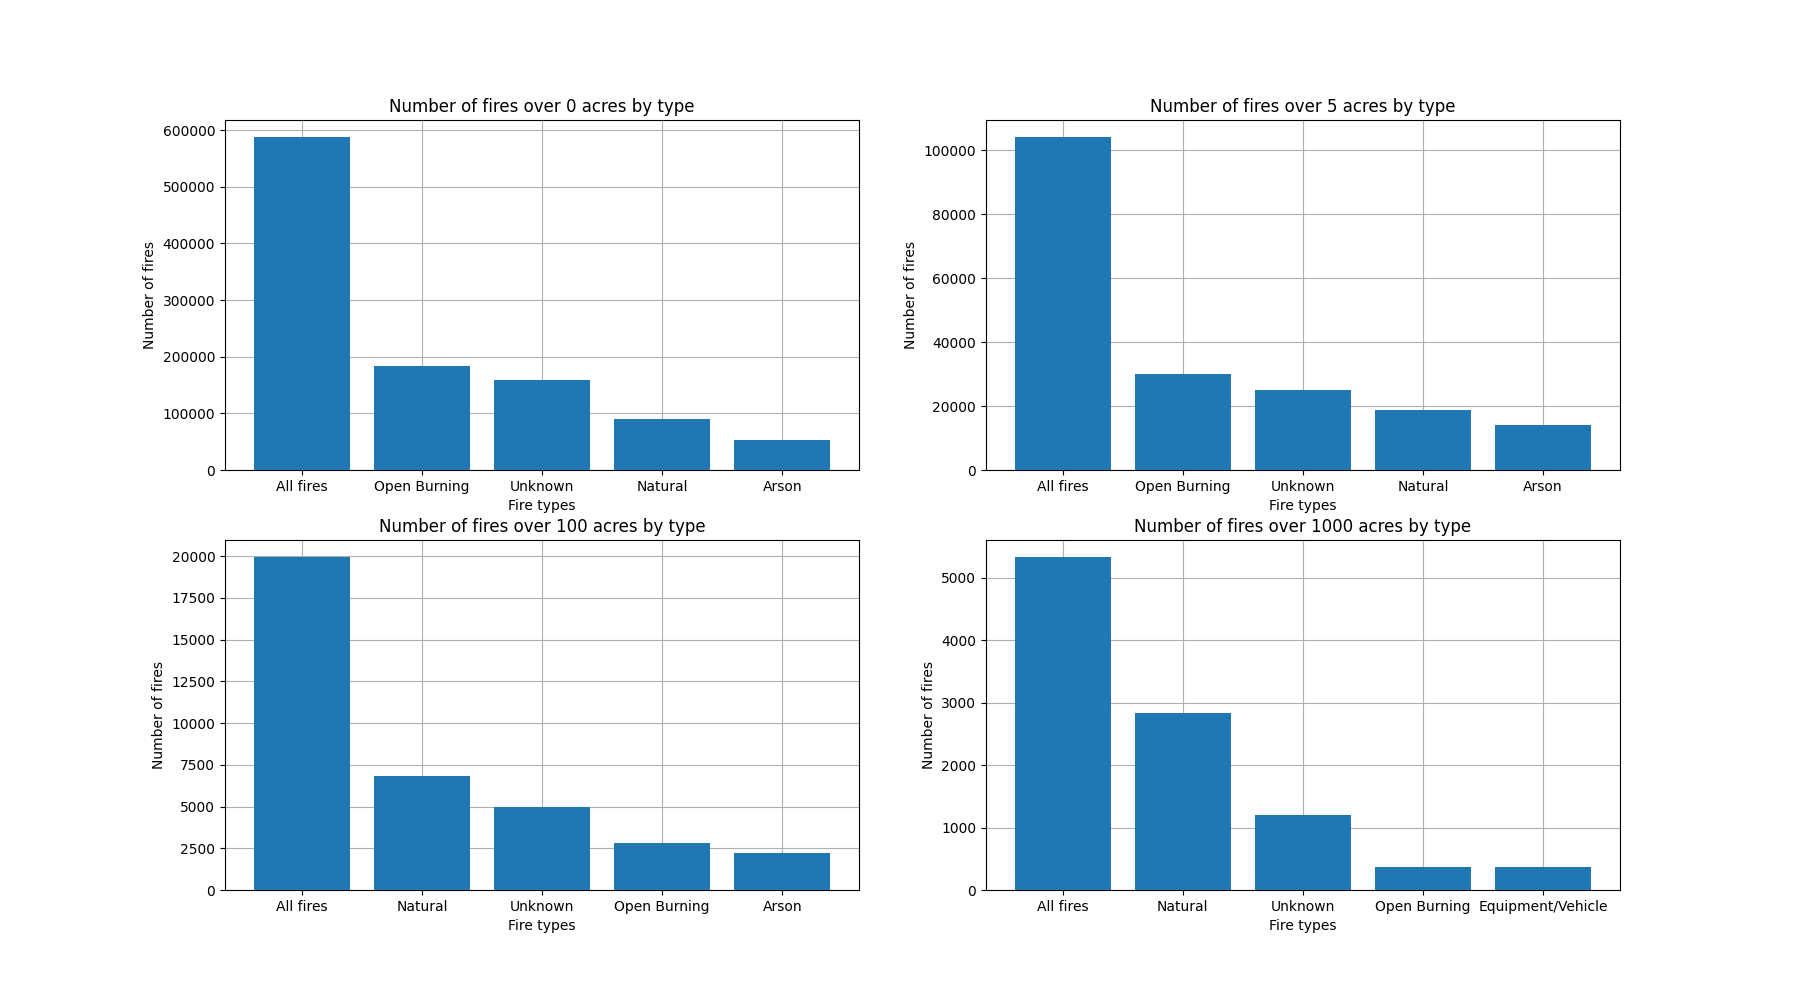
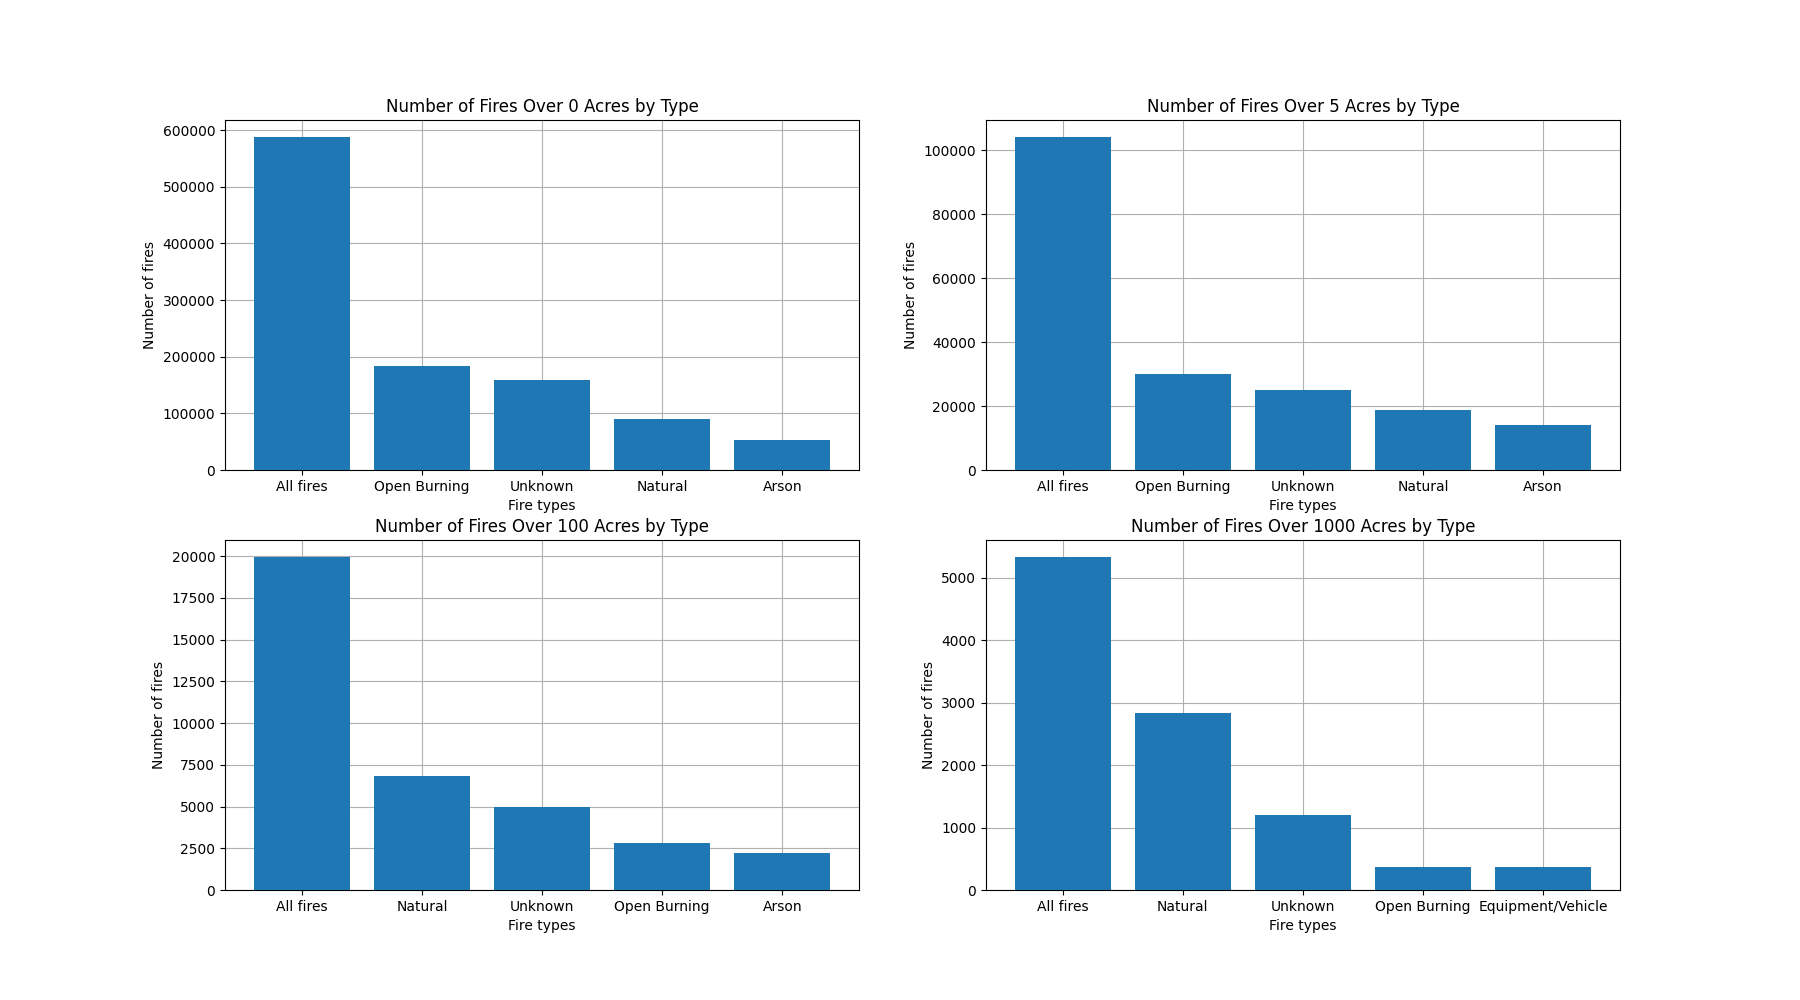
Added a graph for most acres burned per state and updated graphs to use Title Case

diff --git a/src/data_exploration/data_plotting.py b/src/data_exploration/data_plotting.py
@@ -17,7 +17,7 @@ def graph_fire_count_by_month(rows):
         fire_count_list.append(rows[index][1])
 
     plt.bar(month_list, fire_count_list, zorder=3)
-    plt.title("Number of fires by month in the 2010s")
+    plt.title("Number of Fires by Month in the 2010s")
     plt.ylabel("Number of fires")
     plt.xlabel("Months")
     plt.grid(True)
@@ -57,7 +57,7 @@ def graph_state_top_causes(rows):
         count_list.append(rows[index][1])
 
     plt.pie(count_list, labels=label_list)
-    plt.title("Top causes from every state")
+    plt.title("Top Causes from Every State")
 
     plt.savefig("./src/static/images/top_causes_from_every_state.png")
     plt.show()
@@ -96,7 +96,7 @@ def graph_top_causes(cause_rows, total_fires):
             count_list.append(subplot_cause_rows[index][1])
         plt.bar(cause_list, count_list, zorder=3)
         plt.grid(True)
-        plt.title(f"Number of fires over {min_acreage[current_subplot]} acres by type")
+        plt.title(f"Number of Fires Over {min_acreage[current_subplot]} Acres by Type")
         plt.xlabel("Fire types")
         plt.ylabel("Number of fires")
 
@@ -125,11 +125,10 @@ def graph_states_with_highest_acreage_sums(rows):
         label_list.append(x)
         acreage_list.append(int(float(y)/1000000))
     
-    print(label_list)
-    print(acreage_list)
     plt.bar(label_list, acreage_list, zorder=2)
-    plt.title('Ten States With The Most Burned Acreage')
+    plt.title('Ten States With the Most Burned Acreage')
     plt.xlabel('State')
     plt.ylabel('Acres in millions')
     plt.grid(True, zorder=0)
+    plt.savefig("./src/static/images/states_with_highest_acreage_sums.png")
     plt.show()

diff --git a/src/main.py b/src/main.py
@@ -10,8 +10,8 @@ from data_processing.df_load_driver import get_dataframes
 from data_processing.combine_dataframes import combine_dataframes
 from data_processing.split_dataframes import split_dataframes
 from data_upload.db_upload import upload_tables
-from data_upload.db_query import fetch_wildfire_count_by_type, fetch_number_of_fires, fetch_top_causes, fetch_fire_coordinates, fetch_fire_count_by_month
-from data_exploration.data_plotting import graph_top_causes, graph_state_top_causes, plot_usa_heatmap, graph_fire_count_by_month
+from data_upload.db_query import fetch_wildfire_count_by_type, fetch_number_of_fires, fetch_top_causes, fetch_fire_coordinates, fetch_fire_count_by_month, fetch_states_with_highest_acreage_sums
+from data_exploration.data_plotting import graph_top_causes, graph_state_top_causes, plot_usa_heatmap, graph_fire_count_by_month, graph_states_with_highest_acreage_sums
 
 def show_original_dataframes(national_df, new_york_df, oregon_df, california_df):
     print('-----------------------')
@@ -59,12 +59,9 @@ def show_graphs():
     if fires_by_month != None:
         graph_fire_count_by_month(fires_by_month)
 
-    
-
-
-
-    
-
+    states_with_most_acreage_burned = fetch_states_with_highest_acreage_sums()
+    if states_with_most_acreage_burned != None:
+        graph_states_with_highest_acreage_sums(states_with_most_acreage_burned)
 
 
 def main():
@@ -92,7 +89,7 @@ def main():
     #show_original_dataframes(*df_list)
     #show_table_dataframes(wildfire_df, wildfire_size_df, wildfire_location_df)
 
-    # show_graphs()
+    #show_graphs()
 
 if __name__ == "__main__":
     main()
